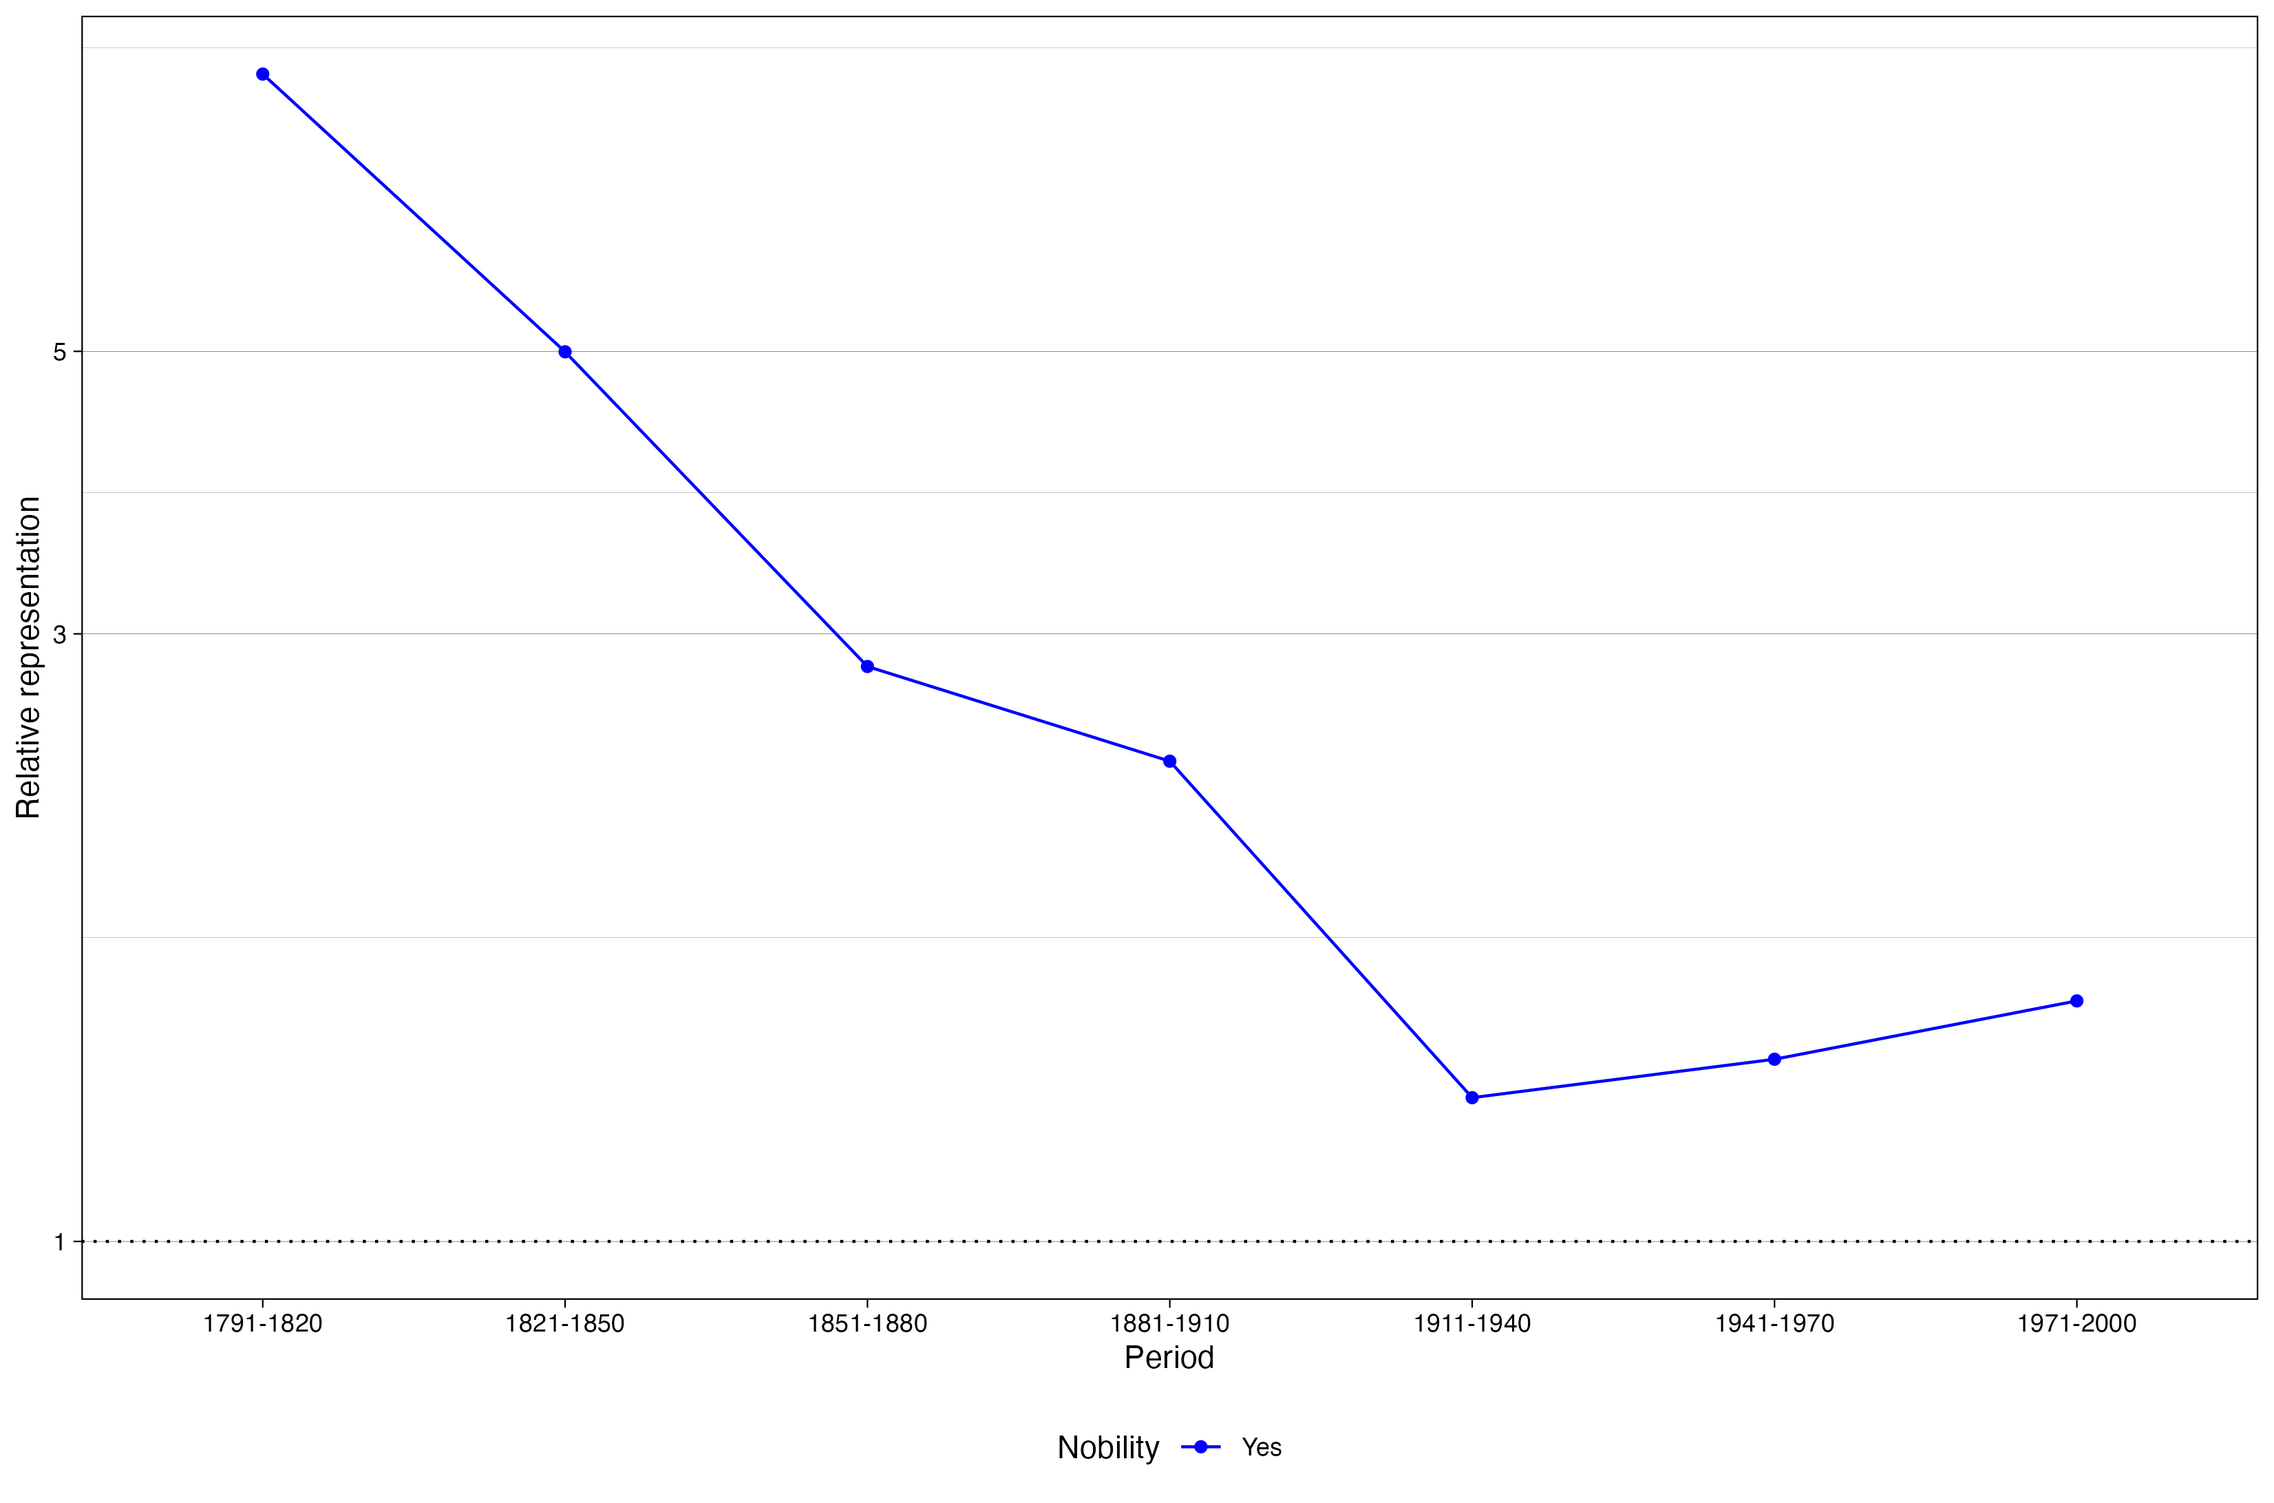
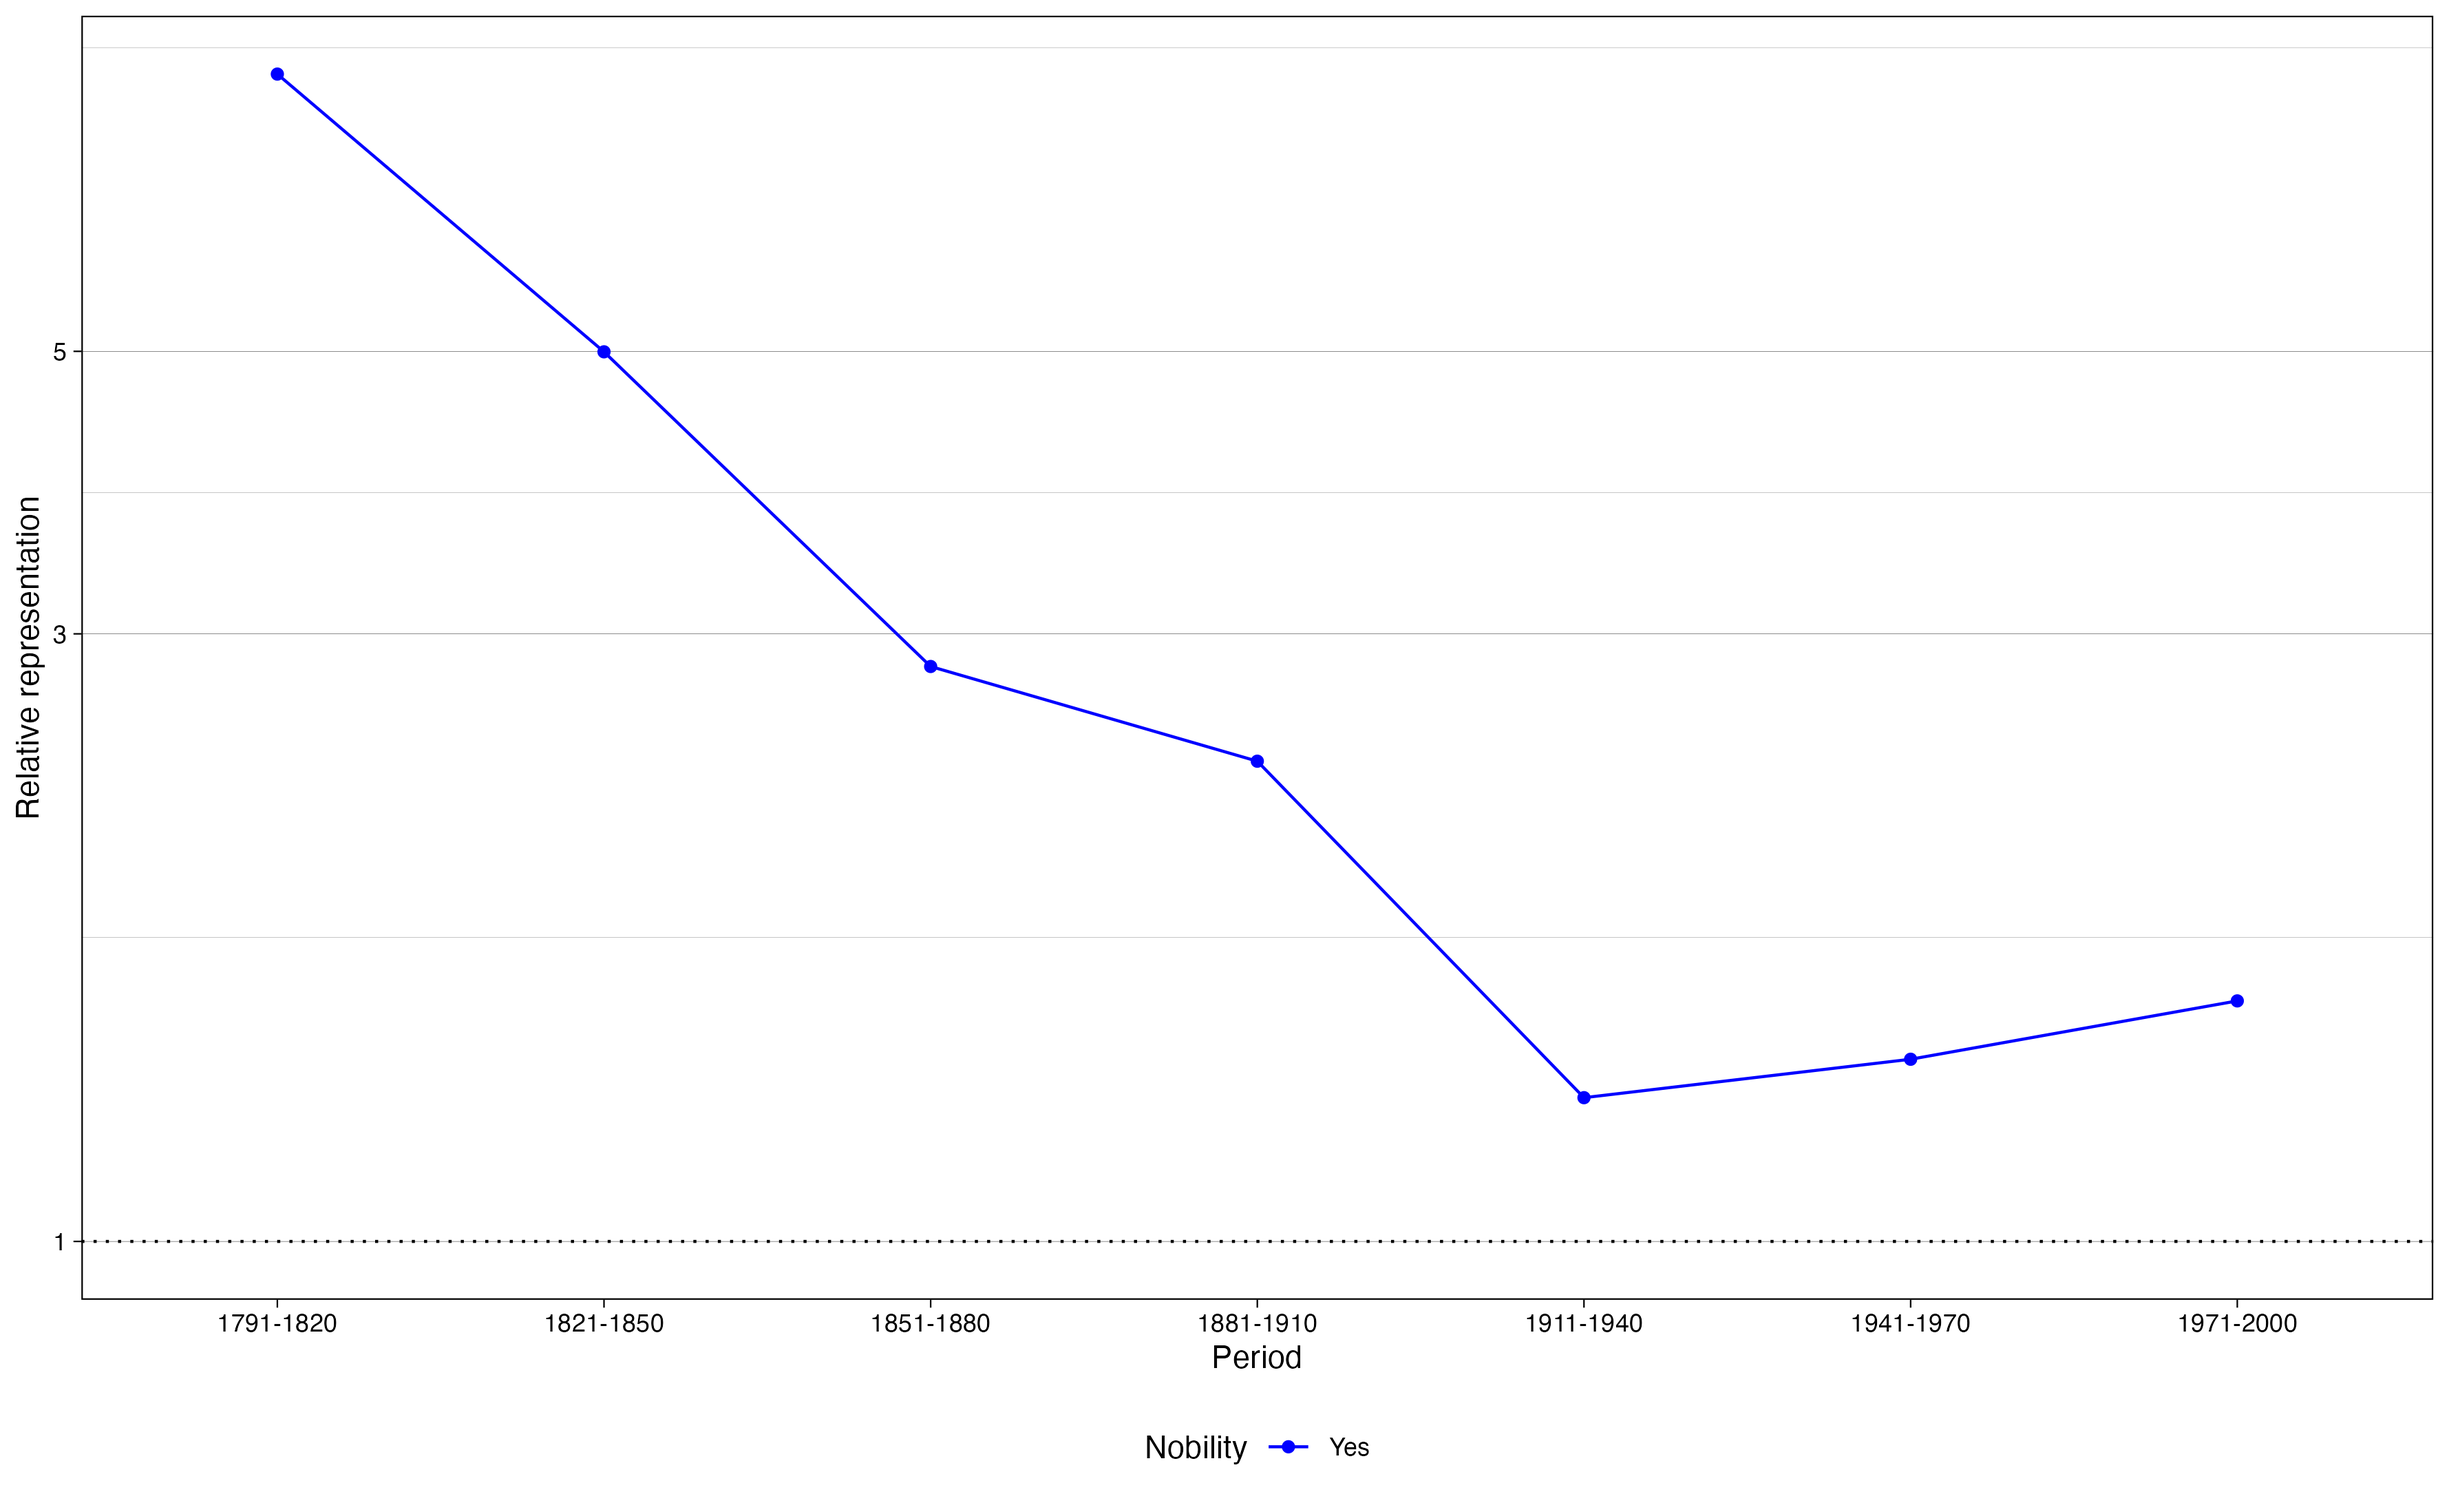
changing size of images to match slides

diff --git a/Project_dissemination/DanishMobility_slides/Slides_MHK_PhD_seminar.html b/Project_dissemination/DanishMobility_slides/Slides_MHK_PhD_seminar.html
@@ -386,38 +386,38 @@ List of 10 most frequent surnames in different HISCAM groups
 
 # Preliminary findings: owners of manor estates
 
-&lt;img src="figures/manor_rr_by_hiscam.png" width="70%" style="display: block; margin: auto;" /&gt;
+&lt;img src="figures/manor_rr_by_hiscam.png" width="80%" style="display: block; margin: auto;" /&gt;
 
 ---
 
 # Preliminary findings: owners of manor estates
 
-&lt;img src="figures/manor_rr_by_nobility.png" width="70%" style="display: block; margin: auto;" /&gt;
+&lt;img src="figures/manor_rr_by_nobility.png" width="80%" style="display: block; margin: auto;" /&gt;
 
 ---
 
 # Preliminary findings: members of parliament
 
-&lt;img src="figures/mp_rr_by_hiscam.png" width="70%" style="display: block; margin: auto;" /&gt;
+&lt;img src="figures/mp_rr_by_hiscam.png" width="80%" style="display: block; margin: auto;" /&gt;
 
 ---
 
 # Preliminary findings: members of parliament
 
-&lt;img src="figures/mp_rr_by_nobility.png" width="70%" style="display: block; margin: auto;" /&gt;
+&lt;img src="figures/mp_rr_by_nobility.png" width="80%" style="display: block; margin: auto;" /&gt;
 
 ---
 
 
 # Preliminary findings: PhD graduates (2011-2024)
 
-&lt;img src="figures/phd_rr_by_hiscam.png" width="70%" style="display: block; margin: auto;" /&gt;
+&lt;img src="figures/phd_rr_by_hiscam.png" width="80%" style="display: block; margin: auto;" /&gt;
 
 ---
 
 # Preliminary findings: PhD graduates (2011-2024)
 
-&lt;img src="figures/phd_rr_by_area.png" width="70%" style="display: block; margin: auto;" /&gt;
+&lt;img src="figures/phd_rr_by_area.png" width="80%" style="display: block; margin: auto;" /&gt;
 
 ---
 
